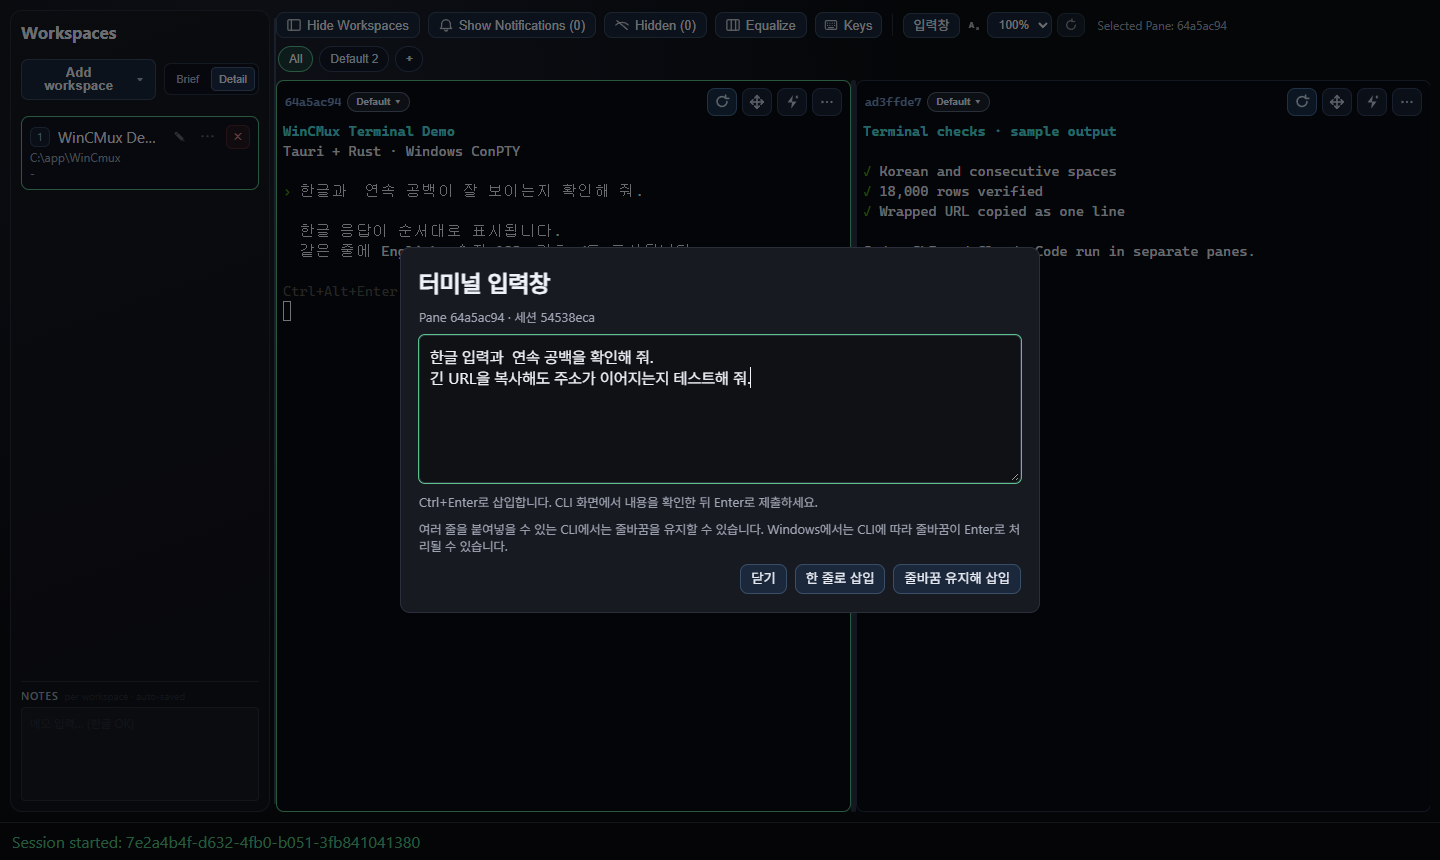
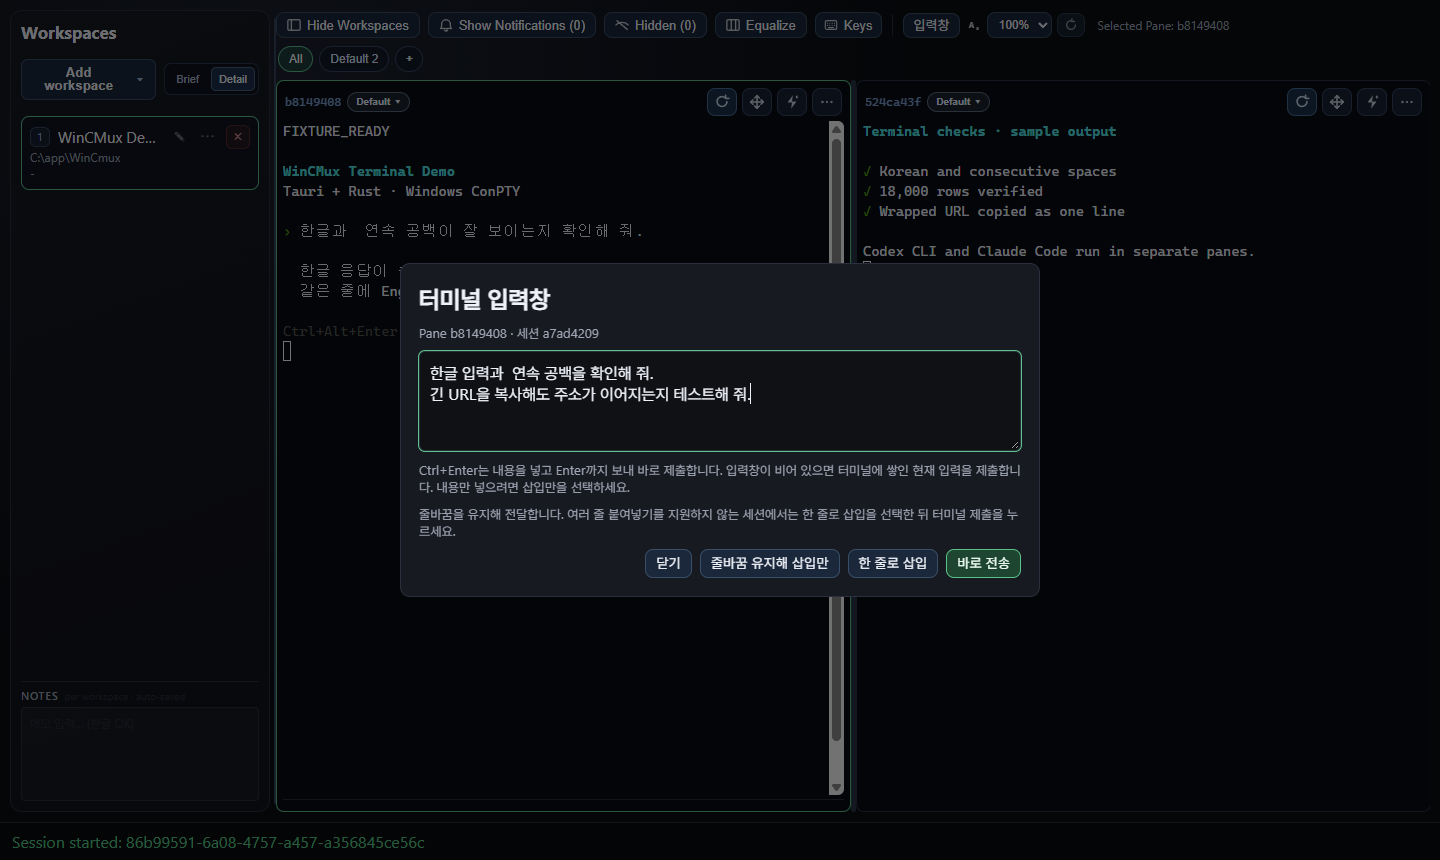
Add per-pane prompt composer and direct submission

diff --git a/apps/desktop-tauri/renderer/renderer.panes.js b/apps/desktop-tauri/renderer/renderer.panes.js
@@ -1418,6 +1418,7 @@ function applyPaneSelectionStyles() {
   if (selectedPaneLabel.textContent !== selectedText) {
     selectedPaneLabel.textContent = selectedText;
   }
+  syncTerminalPrompt();
 }
 
 function paneDropPlacement(card, clientX, clientY) {
@@ -2524,13 +2525,19 @@ function terminalPromptPayload(text, preserveLineBreaks, bracketedPasteMode) {
   return `\x1b[200~${value}\x1b[201~`;
 }
 
+let syncTerminalPrompt = () => {};
+
 function bindTerminalPrompt() {
   const dialog = $("terminalPrompt");
+  const composer = $("terminalComposer");
   const form = $("terminalPromptForm");
   const editor = $("terminalPromptText");
+  const targetLabel = $("terminalPromptTarget");
   const error = $("terminalPromptError");
   const close = $("terminalPromptClose");
+  const expand = $("terminalPromptExpand");
   const insert = $("terminalPromptInsert");
+  const send = $("terminalPromptSend");
   const insertSingleLine = $("terminalPromptSingleLine");
   const multilineHint = $("terminalPromptMultilineHint");
   let target = null;
@@ -2543,11 +2550,47 @@ function bindTerminalPrompt() {
   };
   const updateInsertActions = () => {
     const hasLineBreaks = /[\n\t]/.test(editor.value);
-    insert.textContent = hasLineBreaks ? "줄바꿈 유지해 삽입" : "터미널에 삽입";
+    insert.textContent = hasLineBreaks ? "줄바꿈 유지해 삽입만" : "삽입만";
+    send.textContent = editor.value ? "바로 전송" : "터미널 제출";
     insertSingleLine.hidden = multilineHint.hidden = !hasLineBreaks;
+    editor.style.height = "auto";
+    const card = composer.parentElement;
+    const maxHeight = dialog.open ? 320 : Math.max(30, Math.min(120, (card?.clientHeight ?? 400) * 0.25));
+    editor.style.height = `${Math.min(maxHeight, editor.scrollHeight)}px`;
+  };
+  const composerObserver = new ResizeObserver(() => {
+    if (!dialog.open) updateInsertActions();
+  });
+  syncTerminalPrompt = () => {
+    if (dialog.open || writing || (composing && editor.isConnected)) return;
+    const view = state.paneViews.get(state.selectedPaneId);
+    const card = state.paneCards.get(state.selectedPaneId);
+    const changed = target?.view !== view || target?.sessionId !== view?.sessionId;
+    const moved = composer.parentElement !== card || form.parentElement !== composer;
+    if (changed) {
+      target = view ? { view, sessionId: view.sessionId } : null;
+      editor.value = view?.promptDraft ?? "";
+      showError("");
+    }
+    if (card && composer.parentElement !== card) {
+      card.appendChild(composer);
+      composerObserver.disconnect();
+      composerObserver.observe(card);
+    }
+    if (!card) {
+      composerObserver.disconnect();
+      document.body.appendChild(composer);
+    }
+    composer.hidden = !card || !view;
+    const ready = Boolean(view?.sessionId && !view.detached && isPaneViewAttached(view));
+    editor.disabled = insert.disabled = insertSingleLine.disabled = expand.disabled = send.disabled = !ready;
+    targetLabel.textContent = view
+      ? `Pane ${view.paneId.slice(0, 8)} · ${ready ? "Ctrl+Enter로 전송" : "터미널을 먼저 실행하세요"}` : "";
+    if (form.parentElement !== composer) composer.appendChild(form);
+    if (changed || moved) updateInsertActions();
   };
   const open = () => {
-    if (dialog.open) return;
+    if (dialog.open || writing) return;
     const view = state.paneViews.get(state.selectedPaneId);
     if (!view?.sessionId || view.detached || !isPaneViewAttached(view)) {
       setStatus("먼저 실행 중인 터미널을 선택하세요.", true);
@@ -2558,11 +2601,14 @@ function bindTerminalPrompt() {
     updateInsertActions();
     composing = false;
     showError("");
-    $("terminalPromptTarget").textContent = `Pane ${view.paneId.slice(0, 8)} · 세션 ${view.sessionId.slice(0, 8)}`;
+    targetLabel.textContent = `Pane ${view.paneId.slice(0, 8)} · 세션 ${view.sessionId.slice(0, 8)}`;
+    dialog.appendChild(form);
     dialog.showModal();
+    updateInsertActions();
     editor.focus();
   };
 
+  expand.addEventListener("click", open);
   $("terminalPromptBtn").addEventListener("click", open);
   document.addEventListener("keydown", (ev) => {
     if (!ev.defaultPrevented && !ev.isComposing && ev.keyCode !== 229 && isTerminalPromptShortcut(ev)) {
@@ -2571,7 +2617,11 @@ function bindTerminalPrompt() {
     }
   });
   editor.addEventListener("compositionstart", () => { composing = true; });
-  editor.addEventListener("compositionend", () => { composing = false; });
+  editor.addEventListener("compositionend", () => {
+    composing = false;
+    if (target) target.view.promptDraft = editor.value;
+    requestAnimationFrame(() => syncTerminalPrompt());
+  });
   editor.addEventListener("input", () => {
     if (target) target.view.promptDraft = editor.value;
     updateInsertActions();
@@ -2580,7 +2630,7 @@ function bindTerminalPrompt() {
     if (ev.ctrlKey && !ev.altKey && !ev.shiftKey && ev.key === "Enter"
       && !ev.isComposing && ev.keyCode !== 229 && !composing) {
       ev.preventDefault();
-      form.requestSubmit(insert);
+      form.requestSubmit(send);
     }
   });
   close.addEventListener("click", () => dialog.close());
@@ -2588,46 +2638,62 @@ function bindTerminalPrompt() {
     if (composing || writing) ev.preventDefault();
   });
   dialog.addEventListener("close", () => {
-    if (dialog.open || !target) return;
-    const { view, sessionId } = target;
-    target = null;
-    if (view.sessionId === sessionId && state.selectedPaneId === view.paneId && isPaneViewAttached(view)) {
-      focusPaneView(view);
-    }
+    if (dialog.open) return;
+    syncTerminalPrompt();
+    if (target && !editor.disabled) editor.focus();
   });
   form.addEventListener("submit", async (ev) => {
     ev.preventDefault();
-    if (!target || writing || composing || !editor.value) return;
+    const shouldSubmit = !ev.submitter || ev.submitter === send;
+    if (!target || writing || composing || (!editor.value && !shouldSubmit)) return;
     const { view, sessionId } = target;
+    let pasted = false;
     showError("");
-    try {
+    const validateTarget = () => {
       if (view.sessionId !== sessionId || view.detached
         || state.paneViews.get(view.paneId) !== view || !isPaneViewAttached(view)) {
         throw new Error("대상 세션이 변경되었습니다. 입력창을 다시 열어 주세요.");
       }
+    };
+    const write = (data) => new Promise((resolve, reject) => {
+      view.pendingPromptWrite = { resolve, reject };
+      queuePaneInput(view, data);
+    });
+    try {
+      validateTarget();
       const preserveLineBreaks = ev.submitter !== insertSingleLine && /[\n\t]/.test(editor.value);
       const data = terminalPromptPayload(editor.value, preserveLineBreaks, view.term.modes.bracketedPasteMode);
       writing = true;
-      editor.readOnly = close.disabled = insert.disabled = insertSingleLine.disabled = true;
-      await new Promise((resolve, reject) => {
-        view.pendingPromptWrite = { resolve, reject };
-        queuePaneInput(view, data);
-      });
-      view.promptDraft = "";
-      editor.value = "";
-      dialog.close();
-      setStatus("터미널에 입력을 전달했습니다.");
+      editor.readOnly = close.disabled = insert.disabled = insertSingleLine.disabled = expand.disabled = send.disabled = true;
+      if (data) {
+        await write(data);
+        pasted = true;
+        view.promptDraft = "";
+        editor.value = "";
+        updateInsertActions();
+      }
+      if (shouldSubmit) {
+        // Let the CLI finish processing paste before delivering a separate Enter.
+        if (pasted) await new Promise((resolve) => setTimeout(resolve, 150));
+        validateTarget();
+        await write("\r");
+      }
+      if (dialog.open) dialog.close();
+      setStatus(shouldSubmit ? "터미널에 입력을 제출했습니다." : "내용을 넣었습니다. 터미널 제출을 누르면 실행됩니다.");
     } catch (err) {
       const message = err?.message ?? String(err);
-      showError(/pipe disconnected|RPC timeout/.test(message)
+      const detail = /pipe disconnected|RPC timeout/.test(message)
         ? "전달 여부를 확인할 수 없습니다. 터미널 내용을 확인한 뒤 다시 시도하세요."
-        : message);
+        : message;
+      showError(pasted ? `내용은 터미널에 넣었습니다. 제출 상태를 확인해 주세요. ${detail}` : detail);
       editor.focus();
     } finally {
       writing = false;
-      editor.readOnly = close.disabled = insert.disabled = insertSingleLine.disabled = false;
+      editor.readOnly = close.disabled = insert.disabled = insertSingleLine.disabled = expand.disabled = send.disabled = false;
+      syncTerminalPrompt();
     }
   });
+  composer.appendChild(form);
 }
 
 function bindViewToSession(view, sessionId) {
@@ -3557,6 +3623,7 @@ function renderPaneEmptyState(title, description) {
 
   wrap.append(titleEl, descriptionEl);
   paneSurface.appendChild(wrap);
+  syncTerminalPrompt();
 }
 
 function refreshPaneBindings() {

diff --git a/apps/desktop-tauri/renderer/index.html b/apps/desktop-tauri/renderer/index.html
@@ -169,18 +169,21 @@
       </section>
     </div>
 
+    <section id="terminalComposer" class="pane-composer" aria-label="선택한 터미널 입력창" hidden></section>
     <dialog id="terminalPrompt" class="terminal-prompt" aria-labelledby="terminalPromptTitle">
       <form id="terminalPromptForm">
         <h2 id="terminalPromptTitle">터미널 입력창</h2>
         <p id="terminalPromptTarget"></p>
-        <textarea id="terminalPromptText" aria-label="터미널에 삽입할 글" rows="6" autofocus></textarea>
-        <p>Ctrl+Enter로 삽입합니다. CLI 화면에서 내용을 확인한 뒤 Enter로 제출하세요.</p>
-        <p id="terminalPromptMultilineHint" hidden>Ctrl+Enter는 줄바꿈을 유지해 붙여넣습니다. 여러 줄 붙여넣기를 지원하지 않는 세션에서는 한 줄로 삽입을 선택하세요.</p>
+        <textarea id="terminalPromptText" aria-label="터미널에 보낼 글" placeholder="메시지 입력… (Ctrl+Enter로 바로 전송)" rows="1" autofocus></textarea>
+        <p class="terminal-prompt-help">Ctrl+Enter는 내용을 넣고 Enter까지 보내 바로 제출합니다. 입력창이 비어 있으면 터미널에 쌓인 현재 입력을 제출합니다. 내용만 넣으려면 삽입만을 선택하세요.</p>
+        <p id="terminalPromptMultilineHint" hidden>줄바꿈을 유지해 전달합니다. 여러 줄 붙여넣기를 지원하지 않는 세션에서는 한 줄로 삽입을 선택한 뒤 터미널 제출을 누르세요.</p>
         <p id="terminalPromptError" role="alert" hidden></p>
         <div class="terminal-prompt-actions">
+          <button id="terminalPromptExpand" type="button" title="큰 입력창으로 열기" aria-label="큰 입력창으로 열기">확장</button>
           <button id="terminalPromptClose" type="button">닫기</button>
-          <button id="terminalPromptInsert" type="submit">터미널에 삽입</button>
+          <button id="terminalPromptInsert" type="submit">삽입만</button>
           <button id="terminalPromptSingleLine" type="submit" hidden>한 줄로 삽입</button>
+          <button id="terminalPromptSend" type="submit" title="내용을 넣고 Enter로 제출합니다. 입력창이 비어 있으면 터미널의 현재 입력을 제출합니다.">바로 전송</button>
         </div>
       </form>
     </dialog>

diff --git a/apps/desktop-tauri/renderer/styles.css b/apps/desktop-tauri/renderer/styles.css
@@ -1722,6 +1722,86 @@ li.active .ws-delete-btn {
   gap: 8px;
 }
 
+.pane-leaf:has(> .pane-composer:not([hidden])) {
+  grid-template-rows: auto minmax(0, 1fr) auto;
+}
+
+.pane-composer {
+  min-width: 0;
+  border-top: 1px solid var(--border);
+  padding-top: 5px;
+}
+
+.pane-composer[hidden] {
+  display: none;
+}
+
+.pane-composer form {
+  display: flex;
+  flex-wrap: wrap;
+  align-items: center;
+  gap: 4px 8px;
+}
+
+.pane-composer textarea {
+  width: 100%;
+  min-height: 30px;
+  padding: 5px 8px;
+  resize: none;
+  border: 1px solid var(--border);
+  border-radius: 6px;
+  background: var(--bg);
+  color: var(--text);
+  font: inherit;
+  line-height: 20px;
+}
+
+.pane-composer textarea:focus-visible {
+  outline: 1px solid var(--accent);
+}
+
+.pane-composer #terminalPromptTarget {
+  flex: 1;
+  min-width: 0;
+  margin: 0;
+  overflow: hidden;
+  white-space: nowrap;
+  text-overflow: ellipsis;
+  color: var(--muted);
+  font-size: 11px;
+}
+
+.pane-composer #terminalPromptError {
+  flex-basis: 100%;
+  margin: 0;
+  color: var(--error);
+  font-size: 12px;
+}
+
+.pane-composer button {
+  padding: 3px 7px;
+  font-size: 12px;
+}
+
+#terminalPromptSend {
+  border-color: var(--accent);
+  background: #17452f;
+  color: #effff5;
+}
+
+.pane-composer .terminal-prompt-actions {
+  flex-wrap: wrap;
+  gap: 4px;
+}
+
+.pane-composer h2,
+.pane-composer .terminal-prompt-help,
+.pane-composer #terminalPromptClose,
+.pane-composer #terminalPromptMultilineHint,
+.terminal-prompt #terminalPromptExpand {
+  display: none;
+}
+
 .pane-terminal-overlay {
   position: absolute;
   inset: 0;

diff --git a/apps/desktop-tauri/renderer/renderer.js b/apps/desktop-tauri/renderer/renderer.js
@@ -1239,6 +1239,7 @@ async function splitPaneInternal(paneId, direction, options = {}) {
   }
   const previousPaneId = paneId;
   const previousSession = state.paneSessions[previousPaneId] ?? null;
+  const previousPromptDraft = state.paneViews.get(previousPaneId)?.promptDraft ?? "";
   const previousGroupId = groupForPane(previousPaneId)?.id ?? state.selectedGroupId ?? defaultPaneGroup()?.id ?? null;
   const inheritedFontSize = currentPaneFontSize(ws.id, previousPaneId);
   const res = await rpc("layout.split", {
@@ -1280,6 +1281,8 @@ async function splitPaneInternal(paneId, direction, options = {}) {
   await loadSessions();
   paneApi.normalizePaneSessions();
   paneApi.renderPaneSurface(true);
+  const firstView = state.paneViews.get(first);
+  if (firstView) firstView.promptDraft = previousPromptDraft;
   paneApi.refreshPaneBindings();
   hiddenRefreshPanesUi();
   if (state.selectedPaneId) {

diff --git a/README.kr.md b/README.kr.md
@@ -4,18 +4,18 @@
 
 WinCMux는 Codex CLI, Claude Code, PowerShell 등을 여러 pane에서 쓰는 Windows 터미널 앱입니다. Tauri·WebView2·xterm.js 화면을 Rust와 Windows ConPTY에 연결합니다. 설치된 앱은 자체 코어를 실행하는 데 Node.js가 필요 없습니다.
 
-![WinCMux Tauri 0.1.1의 터미널 분할 화면](assets/view.png)
+![WinCMux Tauri 0.1.4의 터미널 분할 화면과 하단 입력창](assets/view.png)
 
-*WinCMux Tauri 0.1.1에서 임시 워크스페이스와 예제 출력을 사용해 캡처한 화면입니다.*
+*WinCMux Tauri 0.1.4에서 임시 워크스페이스와 예제 출력을 사용해 캡처한 화면입니다.*
 
 - 터미널을 분할하고 워크스페이스와 그룹으로 정리합니다. 실행 중인 pane을 숨겼다가 다시 열 수 있습니다.
-- **Ctrl+Alt+Enter**로 한글 입력창을 열고 **Ctrl+Enter**로 선택한 터미널에 초안을 넣습니다. CLI에서 확인한 뒤 Enter로 제출합니다.
+- 선택한 pane 하단 입력창에서 작성하고 **Ctrl+Enter** 또는 **바로 전송**으로 내용을 넣고 제출합니다. pane별 초안은 전환 및 분할 시 유지됩니다. **확장** 또는 **Ctrl+Alt+Enter**로 큰 입력창을 엽니다.
 - 여러 화면 줄에 걸친 URL을 선택해 **Ctrl+C**를 누르면 주소가 한 줄로 복사됩니다. 일반 텍스트의 줄바꿈은 유지됩니다.
 - 세션 기록과 Codex·Claude 재개 명령을 찾고, Windows 알림과 워크스페이스의 에이전트 지침·텍스트·이미지 자료를 관리합니다.
 
 ![한글과 여러 줄 초안을 표시한 WinCMux 입력창](assets/prompt-editor.png)
 
-입력창의 기본 버튼과 **Ctrl+Enter**는 줄바꿈을 유지해 삽입합니다. 여러 줄 붙여넣기를 지원하지 않는 세션에서는 **한 줄로 삽입**을 선택할 수 있습니다.
+**바로 전송**과 **Ctrl+Enter**는 줄바꿈을 유지해 붙여넣고 Enter로 제출합니다. **삽입만**은 내용을 넣고 제출을 기다립니다. 입력창을 비운 상태에서 **터미널 제출**을 누르면 터미널의 현재 입력을 제출합니다. 여러 줄 붙여넣기를 지원하지 않는 세션에서는 **한 줄로 삽입** 후 **터미널 제출**을 누르세요.
 
 ## 개선 결과
 

diff --git a/README.md b/README.md
@@ -4,18 +4,18 @@
 
 WinCMux is a Windows terminal workspace for Codex CLI, Claude Code, PowerShell, and other CLI tools. It uses Tauri, WebView2, xterm.js, and a Rust core built on Windows ConPTY. The installed app runs its core without Node.js.
 
-![WinCMux Tauri 0.1.1 with two terminal panes](assets/view.png)
+![WinCMux Tauri 0.1.4 with two terminal panes and the bottom prompt editor](assets/view.png)
 
-*WinCMux Tauri 0.1.1 running an isolated demo workspace with sample terminal output.*
+*WinCMux Tauri 0.1.4 running an isolated demo workspace with sample terminal output.*
 
 - Run independent terminals in split panes and organize them into workspaces and groups. Hide and reattach running panes.
-- Open the Korean prompt editor with **Ctrl+Alt+Enter**. Press **Ctrl+Enter** to insert a draft, then review and submit it in the terminal.
+- Write in the editor below the selected pane. Drafts follow each pane through selection and splitting. Press **Ctrl+Enter** or **바로 전송** to paste and submit. Use **확장** or **Ctrl+Alt+Enter** to open the larger editor.
 - Select a wrapped URL and press **Ctrl+C** to copy one address. Ordinary multiline selections retain their line breaks.
 - Reopen recorded sessions, resume Codex and Claude conversations, receive Windows notifications, and manage workspace instructions, text snippets, and images.
 
 ![WinCMux Korean prompt editor with a multiline draft](assets/prompt-editor.png)
 
-The default button and **Ctrl+Enter** preserve line breaks using bracketed paste. Choose **한 줄로 삽입** for sessions that require a single line.
+**바로 전송** and **Ctrl+Enter** preserve line breaks and send a separate Enter to submit. **삽입만** only pastes the draft. With an empty editor, **터미널 제출** submits the terminal's existing input. Choose **한 줄로 삽입** followed by **터미널 제출** for sessions that require a single line.
 
 ## What improved
 

diff --git a/docs/features.md b/docs/features.md
@@ -17,7 +17,7 @@
 | Shortcut | Action |
 |---|---|
 | Ctrl+Alt+Enter | Open the prompt editor |
-| Ctrl+Enter | Insert the editor draft into the selected terminal |
+| Ctrl+Enter | Paste and submit the editor draft, or submit existing terminal input when the editor is empty |
 | Ctrl+C | Copy selected terminal text or send an interrupt without a selection |
 | Ctrl+Shift+C | Copy selected terminal text |
 | Ctrl+/ | Show keyboard shortcuts |
